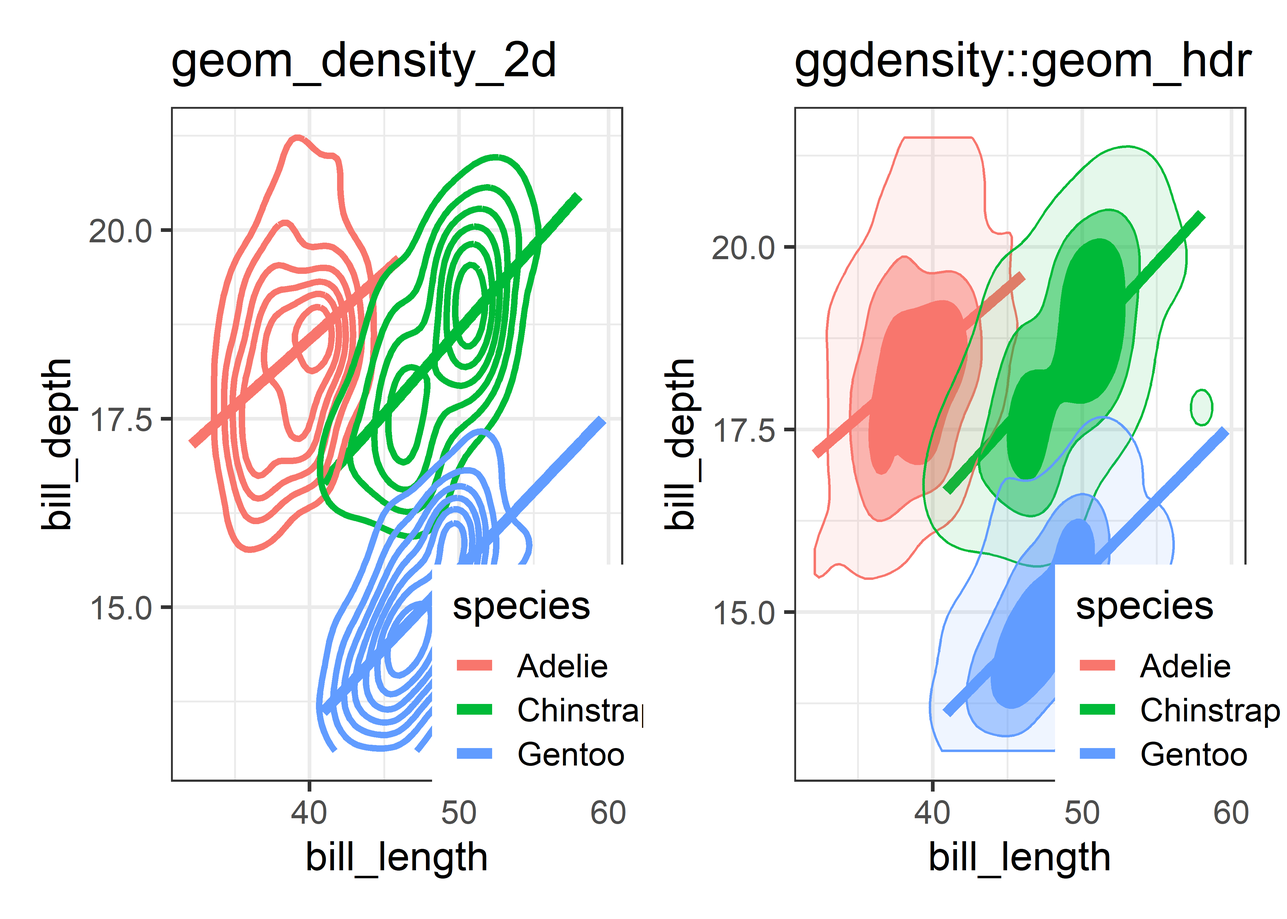
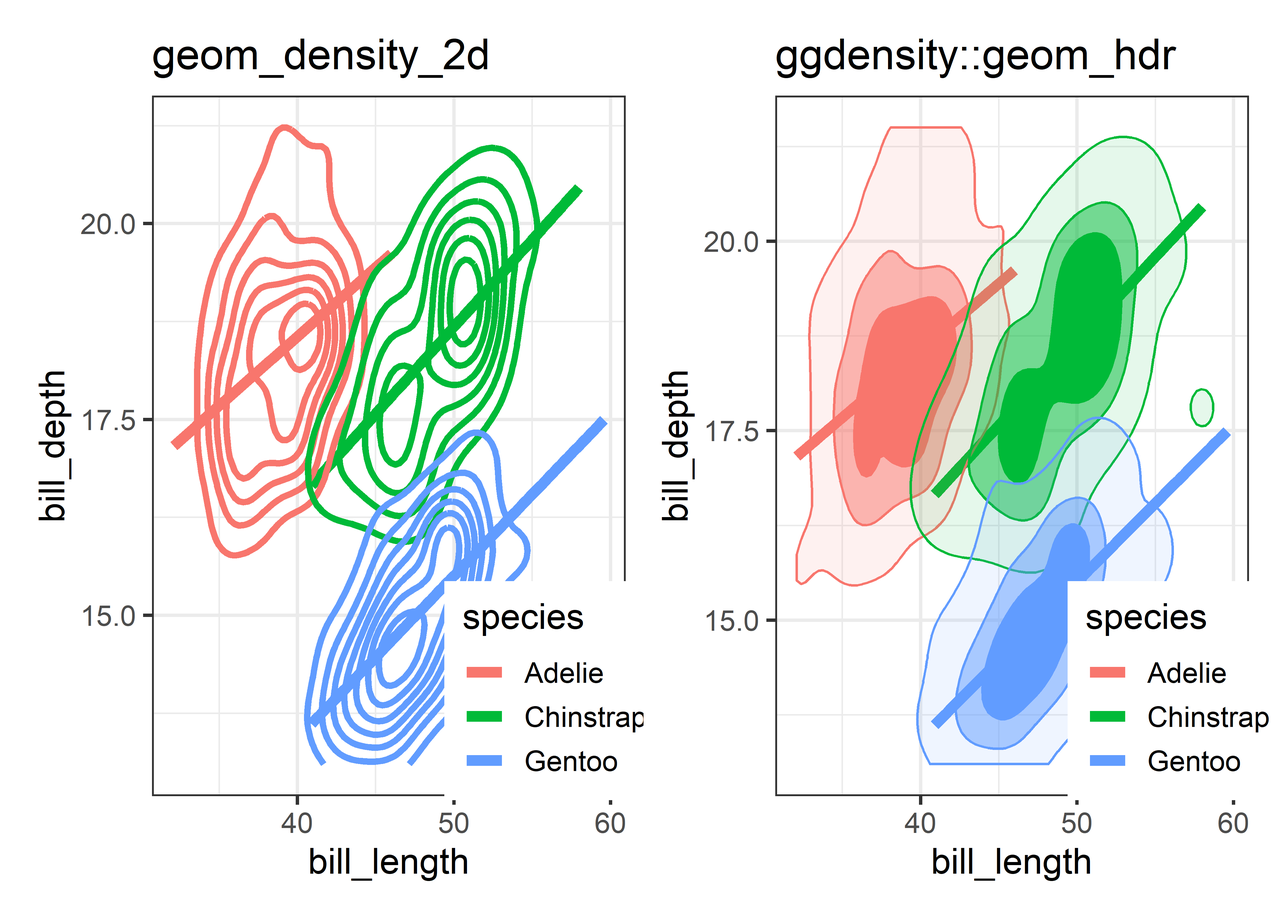
more scatmat & ggdensity

diff --git a/docs/03-multivariate_plots.html b/docs/03-multivariate_plots.html
@@ -542,7 +542,7 @@ A bit of history
 <div class="cell" data-layout-align="center">
 <div class="cell-output-display">
 <div id="fig-mahalanobis" class="quarto-figure quarto-figure-center anchored">
-<figure class="figure"><p><img src="images/mahalanobis.png" class="img-fluid figure-img" style="width:70.0%"></p>
+<figure class="figure"><p><img src="images/mahalanobis.png" class="img-fluid figure-img" style="width:60.0%"></p>
 <figcaption class="figure-caption">Figure&nbsp;3.8: 2D data with curves of constant distance from the centroid. The blue solid ellipse shows a contour of constant Mahalanobis distance, taking the correlation into account; the dashed red circle is a contour of equal Euclidean distance. Given the data points, Which of the points <strong>A</strong> and <strong>B</strong> is further from the mean (X)? <em>Source</em>: Re-drawn from <a href="https://ouzhang.rbind.io/2020/11/16/outliers-part4/">Ou Zhang</a></figcaption></figure>
 </div>
 </div>
@@ -651,7 +651,7 @@ D_M^2 (\mathbf{y}) = (\mathbf{y} - \bar{\mathbf{y}})^T S^{-1} (\mathbf{y} - \bar
 <span><span class="co">#&gt;                2               17               20               24</span></span></code><button title="Copy to Clipboard" class="code-copy-button"><i class="bi"></i></button></pre></div>
 <div class="cell-output-display">
 <div id="fig-Prestige-scatterplot-income1" class="quarto-figure quarto-figure-center anchored">
-<figure class="figure"><p><img src="figs/fig-Prestige-scatterplot-income1-1.png" class="img-fluid figure-img" style="width:100.0%"></p>
+<figure class="figure"><p><img src="figs/fig-Prestige-scatterplot-income1-1.png" class="img-fluid figure-img" style="width:800.0%"></p>
 <figcaption class="figure-caption">Figure&nbsp;3.11: Scatterplot of prestige vs.&nbsp;income, showing the linear regression line (red), the loess smooth with a confidence envelope (darkgreen) and a 68% data ellipse.</figcaption></figure>
 </div>
 </div>
@@ -678,7 +678,7 @@ D_M^2 (\mathbf{y}) = (\mathbf{y} - \bar{\mathbf{y}})^T S^{-1} (\mathbf{y} - \bar
 <span><span class="co">#&gt;          24          41          53          67</span></span></code><button title="Copy to Clipboard" class="code-copy-button"><i class="bi"></i></button></pre></div>
 <div class="cell-output-display">
 <div id="fig-Prestige-scatterplot-educ1" class="quarto-figure quarto-figure-center anchored">
-<figure class="figure"><p><img src="figs/fig-Prestige-scatterplot-educ1-1.png" class="img-fluid figure-img" style="width:100.0%"></p>
+<figure class="figure"><p><img src="figs/fig-Prestige-scatterplot-educ1-1.png" class="img-fluid figure-img" style="width:80.0%"></p>
 <figcaption class="figure-caption">Figure&nbsp;3.12: Scatterplot of prestige vs.&nbsp;education, showing the linear regression line (red), the loess smooth with a confidence envelope (darkgreen) and a 68% data ellipse.</figcaption></figure>
 </div>
 </div>
@@ -686,7 +686,8 @@ D_M^2 (\mathbf{y}) = (\mathbf{y} - \bar{\mathbf{y}})^T S^{-1} (\mathbf{y} - \bar
 <p>In this plot, farmers, newsboys, file.clerks and physicians are identified as noteworthy, for being furthest from the mean by Mahalanobis distance. In relation to their typical level of education, these are mostly understandable, but it is nice that farmers are rated of higher prestige than their level of education would predict.</p>
 <p>Note that the <code>method</code> argument for point identification can take a vector of case numbers indicating the points to be labeled. So, to label the observations with large absolute standardized residuals in the linear model <code>m</code>, you can use <code>method = which(abs(rstandard(m)) &gt; 2)</code>.</p>
 <div class="cell" data-layout-align="center">
-<div class="sourceCode" id="cb15" data-source-line-numbers="nil" data-code-line-numbers="nil"><pre class="downlit sourceCode r code-with-copy"><code class="sourceCode R"><span><span class="va">m</span> <span class="op">&lt;-</span> <span class="fu"><a href="https://rdrr.io/r/stats/lm.html">lm</a></span><span class="op">(</span><span class="va">prestige</span> <span class="op">~</span> <span class="va">education</span>, data<span class="op">=</span><span class="va">Prestige</span><span class="op">)</span></span>
+<div class="sourceCode" id="cb15" data-source-line-numbers="nil" data-code-line-numbers="nil"><pre class="downlit sourceCode r code-with-copy"><code class="sourceCode R"><span><span class="fu"><a href="https://rdrr.io/r/graphics/par.html">par</a></span><span class="op">(</span>mar <span class="op">=</span> <span class="fu"><a href="https://rdrr.io/r/base/c.html">c</a></span><span class="op">(</span><span class="fl">4</span>,<span class="fl">4</span>,<span class="fl">1</span>,<span class="fl">1</span><span class="op">)</span><span class="op">+</span><span class="fl">.1</span><span class="op">)</span></span>
+<span><span class="va">m</span> <span class="op">&lt;-</span> <span class="fu"><a href="https://rdrr.io/r/stats/lm.html">lm</a></span><span class="op">(</span><span class="va">prestige</span> <span class="op">~</span> <span class="va">education</span>, data<span class="op">=</span><span class="va">Prestige</span><span class="op">)</span></span>
 <span><span class="fu"><a href="https://rdrr.io/pkg/car/man/scatterplot.html">scatterplot</a></span><span class="op">(</span><span class="va">prestige</span> <span class="op">~</span> <span class="va">education</span>, data<span class="op">=</span><span class="va">Prestige</span>,</span>
 <span>            pch <span class="op">=</span> <span class="fl">16</span>, cex.lab <span class="op">=</span> <span class="fl">1.25</span>,</span>
 <span>            boxplots <span class="op">=</span> <span class="cn">FALSE</span>,</span>
@@ -704,7 +705,7 @@ D_M^2 (\mathbf{y}) = (\mathbf{y} - \bar{\mathbf{y}})^T S^{-1} (\mathbf{y} - \bar
 <span><span class="co">#&gt;                        67</span></span></code><button title="Copy to Clipboard" class="code-copy-button"><i class="bi"></i></button></pre></div>
 <div class="cell-output-display">
 <div id="fig-Prestige-scatterplot-educ2" class="quarto-figure quarto-figure-center anchored">
-<figure class="figure"><p><img src="figs/fig-Prestige-scatterplot-educ2-1.png" class="img-fluid figure-img" style="width:100.0%"></p>
+<figure class="figure"><p><img src="figs/fig-Prestige-scatterplot-educ2-1.png" class="img-fluid figure-img" style="width:800.0%"></p>
 <figcaption class="figure-caption">Figure&nbsp;3.13: Scatterplot of prestige vs.&nbsp;education, labeling points whose absolute stanardized residual is &gt; 2.</figcaption></figure>
 </div>
 </div>
@@ -728,7 +729,7 @@ D_M^2 (\mathbf{y}) = (\mathbf{y} - \bar{\mathbf{y}})^T S^{-1} (\mathbf{y} - \bar
 <span><span class="co">#&gt;                2               20               53               63</span></span></code><button title="Copy to Clipboard" class="code-copy-button"><i class="bi"></i></button></pre></div>
 <div class="cell-output-display">
 <div id="fig-Prestige-scatterplot2" class="quarto-figure quarto-figure-center anchored">
-<figure class="figure"><p><img src="figs/fig-Prestige-scatterplot2-1.png" class="img-fluid figure-img" style="width:100.0%"></p>
+<figure class="figure"><p><img src="figs/fig-Prestige-scatterplot2-1.png" class="img-fluid figure-img" style="width:80.0%"></p>
 <figcaption class="figure-caption">Figure&nbsp;3.14: Scatterplot of prestige vs.&nbsp;log(income).</figcaption></figure>
 </div>
 </div>
@@ -749,7 +750,7 @@ D_M^2 (\mathbf{y}) = (\mathbf{y} - \bar{\mathbf{y}})^T S^{-1} (\mathbf{y} - \bar
 <span>              var<span class="op">=</span><span class="cn">FALSE</span>, lwd.smooth<span class="op">=</span><span class="fl">2</span>, lty.smooth<span class="op">=</span><span class="fl">1</span><span class="op">)</span><span class="op">)</span></span></code><button title="Copy to Clipboard" class="code-copy-button"><i class="bi"></i></button></pre></div>
 <div class="cell-output-display">
 <div id="fig-Prestige-scatterplot3" class="quarto-figure quarto-figure-center anchored">
-<figure class="figure"><p><img src="figs/fig-Prestige-scatterplot3-1.png" class="img-fluid figure-img" style="width:100.0%"></p>
+<figure class="figure"><p><img src="figs/fig-Prestige-scatterplot3-1.png" class="img-fluid figure-img" style="width:80.0%"></p>
 <figcaption class="figure-caption">Figure&nbsp;3.15: Scatterplot of prestige vs.&nbsp;income, stratified by occupational type. This implies a different interpretation, where occupation type is a moderator variable.</figcaption></figure>
 </div>
 </div>
@@ -769,7 +770,7 @@ D_M^2 (\mathbf{y}) = (\mathbf{y} - \bar{\mathbf{y}})^T S^{-1} (\mathbf{y} - \bar
 </div>
 </div>
 <p>The <code>penguins</code> dataset from the <strong>palmerpenguins</strong> package <span class="citation" data-cites="R-palmerpenguins">(<a href="90-references.html#ref-R-palmerpenguins" role="doc-biblioref">Horst, Hill, and Gorman 2022</a>)</span> provides further instructive examples of plots and analyses of multivariate data. The data consists of measurements of body size (flipper length, body mass, bill length and depth) of 344 penguins collected at the <a href="https://pallter.marine.rutgers.edu/">Palmer Research Station</a> in Antartica. There were three different species of penguins (Adélie, Chinstrap &amp; Gentoo) collected from 3 islands in the Palmer Archipelago between 2007–2009 <span class="citation" data-cites="Gorman2014">(<a href="90-references.html#ref-Gorman2014" role="doc-biblioref">Gorman, Williams, and Fraser 2014</a>)</span>. The purpose was to examine differences in size or appearance of these species, particularly differences among the sexes (sexual dimorphism) in relation to foraging and habitat.</p>
-<p>Here I use a slightly altered version of the dataset, <code>peng</code>, renaming variables to remove the units, making factors of character variables and deleting two cases with missing data.</p>
+<p>Here I use a slightly altered version of the dataset, <code>peng</code>, renaming variables to remove the units, making factors of character variables and deleting a few cases with missing data.</p>
 <div class="cell" data-layout-align="center">
 <div class="sourceCode" id="cb19" data-source-line-numbers="nil" data-code-line-numbers="nil"><pre class="downlit sourceCode r code-with-copy"><code class="sourceCode R"><span><span class="fu"><a href="https://rdrr.io/r/utils/data.html">data</a></span><span class="op">(</span><span class="va">penguins</span>, package <span class="op">=</span> <span class="st">"palmerpenguins"</span><span class="op">)</span></span>
 <span><span class="va">peng</span> <span class="op">&lt;-</span> <span class="va">penguins</span> <span class="op">|&gt;</span></span>
@@ -798,7 +799,7 @@ D_M^2 (\mathbf{y}) = (\mathbf{y} - \bar{\mathbf{y}})^T S^{-1} (\mathbf{y} - \bar
 <p>There are quite a few variables to choose for illustrating data ellipses in scatterplots. Here I focus on the measures of their bills, <code>bill_length</code> and <code>bill_depth</code> (indicating curvature) and show how to use <code>ggplot2</code> for these plots.</p>
 <p>An initial plot using <code>ggplot2</code> shown in <a href="#fig-peng-ggplot1">Figure&nbsp;<span>3.17</span></a> uses color and point shape to distinguish the three penguin species. I annotate the plot of points using the linear regression lines, loess smooths to check for non-linearity and 95% data ellipses to show precision of the linear relation.</p>
 <div class="cell" data-layout-align="center">
-<div class="sourceCode" id="cb20" data-source-line-numbers="nil" data-code-line-numbers="nil"><pre class="downlit sourceCode r code-with-copy"><code class="sourceCode R"><span><span class="fu"><a href="https://ggplot2.tidyverse.org/reference/ggplot.html">ggplot</a></span><span class="op">(</span><span class="va">peng</span>, </span>
+<details open=""><summary>Code</summary><div class="sourceCode" id="cb20" data-source-line-numbers="nil" data-code-line-numbers="nil"><pre class="downlit sourceCode r code-with-copy"><code class="sourceCode R"><span><span class="fu"><a href="https://ggplot2.tidyverse.org/reference/ggplot.html">ggplot</a></span><span class="op">(</span><span class="va">peng</span>, </span>
 <span>       <span class="fu"><a href="https://ggplot2.tidyverse.org/reference/aes.html">aes</a></span><span class="op">(</span>x <span class="op">=</span> <span class="va">bill_length</span>, y <span class="op">=</span> <span class="va">bill_depth</span>,</span>
 <span>           color <span class="op">=</span> <span class="va">species</span>, shape <span class="op">=</span> <span class="va">species</span>, fill<span class="op">=</span><span class="va">species</span><span class="op">)</span><span class="op">)</span> <span class="op">+</span></span>
 <span>  <span class="fu"><a href="https://ggplot2.tidyverse.org/reference/geom_point.html">geom_point</a></span><span class="op">(</span>size<span class="op">=</span><span class="fl">2</span><span class="op">)</span> <span class="op">+</span></span>
@@ -808,9 +809,9 @@ D_M^2 (\mathbf{y}) = (\mathbf{y} - \bar{\mathbf{y}})^T S^{-1} (\mathbf{y} - \bar
 <span>              linewidth <span class="op">=</span> <span class="fl">1.5</span>, se <span class="op">=</span> <span class="cn">FALSE</span>, alpha<span class="op">=</span><span class="fl">0.1</span><span class="op">)</span> <span class="op">+</span></span>
 <span>  <span class="fu"><a href="https://ggplot2.tidyverse.org/reference/stat_ellipse.html">stat_ellipse</a></span><span class="op">(</span>geom <span class="op">=</span> <span class="st">"polygon"</span>, level <span class="op">=</span> <span class="fl">0.95</span>, alpha <span class="op">=</span> <span class="fl">0.2</span><span class="op">)</span> <span class="op">+</span></span>
 <span>  <span class="fu"><a href="https://ggplot2.tidyverse.org/reference/theme.html">theme</a></span><span class="op">(</span>legend.position <span class="op">=</span> <span class="fu"><a href="https://rdrr.io/r/base/c.html">c</a></span><span class="op">(</span><span class="fl">0.85</span>, <span class="fl">0.15</span><span class="op">)</span><span class="op">)</span></span></code><button title="Copy to Clipboard" class="code-copy-button"><i class="bi"></i></button></pre></div>
-<div class="cell-output-display">
+</details><div class="cell-output-display">
 <div id="fig-peng-ggplot1" class="quarto-figure quarto-figure-center anchored">
-<figure class="figure"><p><img src="figs/fig-peng-ggplot1-1.png" class="img-fluid figure-img" style="width:100.0%"></p>
+<figure class="figure"><p><img src="figs/fig-peng-ggplot1-1.png" class="img-fluid figure-img" style="width:80.0%"></p>
 <figcaption class="figure-caption">Figure&nbsp;3.17: Penguin bill length and bill depth according to species.</figcaption></figure>
 </div>
 </div>
@@ -818,7 +819,7 @@ D_M^2 (\mathbf{y}) = (\mathbf{y} - \bar{\mathbf{y}})^T S^{-1} (\mathbf{y} - \bar
 <p>Overall, the three species occupy different regions of this 2D space and for each species the relation between bill length and depth appears reasonably linear. Given this, we can suppress plotting the data points to get a visual summary of the data using the fitted regression lines and data ellipses, as shown in <a href="#fig-peng-ggplot2">Figure&nbsp;<span>3.18</span></a>.</p>
 <p>This idea, of <strong>visual thinning</strong> a graph to focus on what should be seen, becomes increasingly useful as the data becomes more complex. The <code>ggplot2</code> framework encourages this, because we can think of various components as layers, to be included or not. Here I chose to include only the regression line and add data ellipses of 40%, 68% and 95% coverage to highlight the increasing bivariate density around the group means.</p>
 <div class="cell" data-layout-align="center">
-<div class="sourceCode" id="cb21" data-source-line-numbers="nil" data-code-line-numbers="nil"><pre class="downlit sourceCode r code-with-copy"><code class="sourceCode R"><span><span class="fu"><a href="https://ggplot2.tidyverse.org/reference/ggplot.html">ggplot</a></span><span class="op">(</span><span class="va">peng</span>, </span>
+<details open=""><summary>Code</summary><div class="sourceCode" id="cb21" data-source-line-numbers="nil" data-code-line-numbers="nil"><pre class="downlit sourceCode r code-with-copy"><code class="sourceCode R"><span><span class="fu"><a href="https://ggplot2.tidyverse.org/reference/ggplot.html">ggplot</a></span><span class="op">(</span><span class="va">peng</span>, </span>
 <span>       <span class="fu"><a href="https://ggplot2.tidyverse.org/reference/aes.html">aes</a></span><span class="op">(</span>x <span class="op">=</span> <span class="va">bill_length</span>, y <span class="op">=</span> <span class="va">bill_depth</span>,</span>
 <span>           color <span class="op">=</span> <span class="va">species</span>, shape <span class="op">=</span> <span class="va">species</span>, fill<span class="op">=</span><span class="va">species</span><span class="op">)</span><span class="op">)</span> <span class="op">+</span></span>
 <span>  <span class="fu"><a href="https://ggplot2.tidyverse.org/reference/geom_smooth.html">geom_smooth</a></span><span class="op">(</span>method <span class="op">=</span> <span class="st">"lm"</span>,  se<span class="op">=</span><span class="cn">FALSE</span>, linewidth<span class="op">=</span><span class="fl">2</span><span class="op">)</span> <span class="op">+</span></span>
@@ -826,18 +827,19 @@ D_M^2 (\mathbf{y}) = (\mathbf{y} - \bar{\mathbf{y}})^T S^{-1} (\mathbf{y} - \bar
 <span>  <span class="fu"><a href="https://ggplot2.tidyverse.org/reference/stat_ellipse.html">stat_ellipse</a></span><span class="op">(</span>geom <span class="op">=</span> <span class="st">"polygon"</span>, level <span class="op">=</span> <span class="fl">0.68</span>, alpha <span class="op">=</span> <span class="fl">0.2</span><span class="op">)</span> <span class="op">+</span></span>
 <span>  <span class="fu"><a href="https://ggplot2.tidyverse.org/reference/stat_ellipse.html">stat_ellipse</a></span><span class="op">(</span>geom <span class="op">=</span> <span class="st">"polygon"</span>, level <span class="op">=</span> <span class="fl">0.40</span>, alpha <span class="op">=</span> <span class="fl">0.2</span><span class="op">)</span> <span class="op">+</span></span>
 <span>  <span class="fu"><a href="https://ggplot2.tidyverse.org/reference/theme.html">theme</a></span><span class="op">(</span>legend.position <span class="op">=</span> <span class="fu"><a href="https://rdrr.io/r/base/c.html">c</a></span><span class="op">(</span><span class="fl">0.85</span>, <span class="fl">0.15</span><span class="op">)</span><span class="op">)</span></span></code><button title="Copy to Clipboard" class="code-copy-button"><i class="bi"></i></button></pre></div>
-<div class="cell-output-display">
+</details><div class="cell-output-display">
 <div id="fig-peng-ggplot2" class="quarto-figure quarto-figure-center anchored">
-<figure class="figure"><p><img src="figs/fig-peng-ggplot2-1.png" class="img-fluid figure-img" style="width:100.0%"></p>
+<figure class="figure"><p><img src="figs/fig-peng-ggplot2-1.png" class="img-fluid figure-img" style="width:80.0%"></p>
 <figcaption class="figure-caption">Figure&nbsp;3.18: <strong>Visual thinning</strong>: Suppressing the data points gives a visual summary of the relation between bill length and bill depth using the regression line and data ellipses.</figcaption></figure>
 </div>
 </div>
 </div>
 <p>While I emphasize data ellipses (because I like their beautiful geometry), other visual summaries of the bivariate density are possible and often useful.</p>
-<p>For a single variable, <code><a href="https://rdrr.io/r/stats/density.html">stats::density()</a></code> and <code><a href="https://ggplot2.tidyverse.org/reference/geom_density.html">ggplot2::geom_density()</a></code> calculate a smoothed estimate of the density using kernel methods whose smoothness is controlled by a bandwidth parameter, analogous to the span in a loess smoother. This idea extends to two (and more) variables …</p>
-<p><code>ggplot2</code> provides <code><a href="https://ggplot2.tidyverse.org/reference/geom_density_2d.html">geom_density_2d()</a></code> which takes horizontal slices of the 3d surface at equally-spaced heights … The <strong>ggdensity</strong> package <span class="citation" data-cites="R-ggdensity">(<a href="90-references.html#ref-R-ggdensity" role="doc-biblioref">Otto and Kahle 2023</a>)</span> extends this …</p>
+<p>For a single variable, <code><a href="https://rdrr.io/r/stats/density.html">stats::density()</a></code> and <code><a href="https://ggplot2.tidyverse.org/reference/geom_density.html">ggplot2::geom_density()</a></code> calculate a smoothed estimate of the density using nonparametric kernel methods <span class="citation" data-cites="Silverman:86">(<a href="90-references.html#ref-Silverman:86" role="doc-biblioref">Silverman 1986</a>)</span> whose smoothness is controlled by a bandwidth parameter, analogous to the span in a loess smoother. This idea extends to two (and more) variables <span class="citation" data-cites="Scott1992">(<a href="90-references.html#ref-Scott1992" role="doc-biblioref">Scott 1992</a>)</span>. For bivariate data, <code><a href="https://rdrr.io/pkg/MASS/man/kde2d.html">MASS::kde2d()</a></code> estimates the density on a square <span class="math inline">\(n \times n\)</span> grid over the ranges of the variables.</p>
+<p><code>ggplot2</code> provides <code><a href="https://ggplot2.tidyverse.org/reference/geom_density_2d.html">geom_density_2d()</a></code> which uses <code><a href="https://rdrr.io/pkg/MASS/man/kde2d.html">MASS::kde2d()</a></code> and displays these as contours— horizontal slices of the 3D surface at equally-spaced heights and projects these onto the 2D plane. The <strong>ggdensity</strong> package <span class="citation" data-cites="R-ggdensity">(<a href="90-references.html#ref-R-ggdensity" role="doc-biblioref">Otto and Kahle 2023</a>)</span> extends this with <code><a href="https://jamesotto852.github.io/ggdensity/reference/geom_hdr.html">geom_hdr()</a></code>, computing the high density regions that bound given levels of probability and maps these to the <code>alpha</code> transparency aesthetic. A <code>method</code> argument allows you to specify various nonparametric (<code>method ="kde"</code> is the default) and parametric (<code>method ="mvnorm"</code> gives normal data ellipses) ways to estimate the underlying bivariate distribution.</p>
+<p><a href="#fig-peng-ggdensity">Figure&nbsp;<span>3.19</span></a> shows these side-by-side for comparison. With <code><a href="https://ggplot2.tidyverse.org/reference/geom_density_2d.html">geom_density_2d()</a></code> you can specify either the number of contour <code>bins</code> or the width of these bins (<code>binwidth</code>). For <code><a href="https://jamesotto852.github.io/ggdensity/reference/geom_hdr.html">geom_hdr()</a></code>, the <code>probs</code> argument gives a result that is easier to understand.</p>
 <div class="cell" data-layout-align="center">
-<div class="sourceCode" id="cb22" data-source-line-numbers="nil" data-code-line-numbers="nil"><pre class="downlit sourceCode r code-with-copy"><code class="sourceCode R"><span><span class="kw"><a href="https://rdrr.io/r/base/library.html">library</a></span><span class="op">(</span><span class="va"><a href="https://jamesotto852.github.io/ggdensity/">ggdensity</a></span><span class="op">)</span></span>
+<details open=""><summary>Code</summary><div class="sourceCode" id="cb22" data-source-line-numbers="nil" data-code-line-numbers="nil"><pre class="downlit sourceCode r code-with-copy"><code class="sourceCode R"><span><span class="kw"><a href="https://rdrr.io/r/base/library.html">library</a></span><span class="op">(</span><span class="va"><a href="https://jamesotto852.github.io/ggdensity/">ggdensity</a></span><span class="op">)</span></span>
 <span><span class="kw"><a href="https://rdrr.io/r/base/library.html">library</a></span><span class="op">(</span><span class="va"><a href="https://patchwork.data-imaginist.com">patchwork</a></span><span class="op">)</span></span>
 <span><span class="va">p1</span> <span class="op">&lt;-</span> <span class="fu"><a href="https://ggplot2.tidyverse.org/reference/ggplot.html">ggplot</a></span><span class="op">(</span><span class="va">peng</span>, </span>
 <span>       <span class="fu"><a href="https://ggplot2.tidyverse.org/reference/aes.html">aes</a></span><span class="op">(</span>x <span class="op">=</span> <span class="va">bill_length</span>, y <span class="op">=</span> <span class="va">bill_depth</span>,</span>
@@ -845,6 +847,7 @@ D_M^2 (\mathbf{y}) = (\mathbf{y} - \bar{\mathbf{y}})^T S^{-1} (\mathbf{y} - \bar
 <span>  <span class="fu"><a href="https://ggplot2.tidyverse.org/reference/geom_smooth.html">geom_smooth</a></span><span class="op">(</span>method <span class="op">=</span> <span class="st">"lm"</span>,  se<span class="op">=</span><span class="cn">FALSE</span>, linewidth<span class="op">=</span><span class="fl">2</span><span class="op">)</span> <span class="op">+</span></span>
 <span>  <span class="fu"><a href="https://ggplot2.tidyverse.org/reference/geom_density_2d.html">geom_density_2d</a></span><span class="op">(</span>linewidth <span class="op">=</span> <span class="fl">1.2</span>, bins <span class="op">=</span> <span class="fl">8</span><span class="op">)</span> <span class="op">+</span></span>
 <span>  <span class="fu"><a href="https://ggplot2.tidyverse.org/reference/labs.html">ggtitle</a></span><span class="op">(</span><span class="st">"geom_density_2d"</span><span class="op">)</span> <span class="op">+</span></span>
+<span>  <span class="fu"><a href="https://ggplot2.tidyverse.org/reference/ggtheme.html">theme_bw</a></span><span class="op">(</span>base_size <span class="op">=</span> <span class="fl">14</span><span class="op">)</span> <span class="op">+</span> </span>
 <span>  <span class="fu"><a href="https://ggplot2.tidyverse.org/reference/theme.html">theme</a></span><span class="op">(</span>legend.position <span class="op">=</span> <span class="fu"><a href="https://rdrr.io/r/base/c.html">c</a></span><span class="op">(</span><span class="fl">0.85</span>, <span class="fl">0.15</span><span class="op">)</span><span class="op">)</span></span>
 <span></span>
 <span><span class="va">p2</span> <span class="op">&lt;-</span> <span class="fu"><a href="https://ggplot2.tidyverse.org/reference/ggplot.html">ggplot</a></span><span class="op">(</span><span class="va">peng</span>, </span>
@@ -853,13 +856,14 @@ D_M^2 (\mathbf{y}) = (\mathbf{y} - \bar{\mathbf{y}})^T S^{-1} (\mathbf{y} - \bar
 <span>  <span class="fu"><a href="https://ggplot2.tidyverse.org/reference/geom_smooth.html">geom_smooth</a></span><span class="op">(</span>method <span class="op">=</span> <span class="st">"lm"</span>,  se<span class="op">=</span><span class="cn">FALSE</span>, linewidth<span class="op">=</span><span class="fl">2</span><span class="op">)</span> <span class="op">+</span></span>
 <span>  <span class="fu"><a href="https://jamesotto852.github.io/ggdensity/reference/geom_hdr.html">geom_hdr</a></span><span class="op">(</span>probs <span class="op">=</span> <span class="fu"><a href="https://rdrr.io/r/base/c.html">c</a></span><span class="op">(</span><span class="fl">0.95</span>, <span class="fl">0.68</span>, <span class="fl">0.4</span><span class="op">)</span>, show.legend <span class="op">=</span> <span class="cn">FALSE</span><span class="op">)</span> <span class="op">+</span></span>
 <span>  <span class="fu"><a href="https://ggplot2.tidyverse.org/reference/labs.html">ggtitle</a></span><span class="op">(</span><span class="st">"ggdensity::geom_hdr"</span><span class="op">)</span> <span class="op">+</span></span>
+<span>  <span class="fu"><a href="https://ggplot2.tidyverse.org/reference/ggtheme.html">theme_bw</a></span><span class="op">(</span>base_size <span class="op">=</span> <span class="fl">14</span><span class="op">)</span> <span class="op">+</span> </span>
 <span>  <span class="fu"><a href="https://ggplot2.tidyverse.org/reference/theme.html">theme</a></span><span class="op">(</span>legend.position <span class="op">=</span> <span class="fu"><a href="https://rdrr.io/r/base/c.html">c</a></span><span class="op">(</span><span class="fl">0.85</span>, <span class="fl">0.15</span><span class="op">)</span><span class="op">)</span></span>
 <span></span>
 <span><span class="va">p1</span> <span class="op">+</span> <span class="va">p2</span></span></code><button title="Copy to Clipboard" class="code-copy-button"><i class="bi"></i></button></pre></div>
-<div class="cell-output-display">
+</details><div class="cell-output-display">
 <div id="fig-peng-ggdensity" class="quarto-figure quarto-figure-center anchored">
 <figure class="figure"><p><img src="figs/fig-peng-ggdensity-1.png" class="img-fluid figure-img" style="width:100.0%"></p>
-<figcaption class="figure-caption">Figure&nbsp;3.19: <strong>Bivariate density</strong>: .</figcaption></figure>
+<figcaption class="figure-caption">Figure&nbsp;3.19: <strong>Bivariate densities</strong> show the contours of the 3D surface representing the frequency in the joint distribution of bill length and bill depth.</figcaption></figure>
 </div>
 </div>
 </div>
@@ -912,7 +916,7 @@ D_M^2 (\mathbf{y}) = (\mathbf{y} - \bar{\mathbf{y}})^T S^{-1} (\mathbf{y} - \bar
 <p>It is now easy to see why education is multi-modal: blue collar, white collar and professional occupations have largely non-overlapping years of education. As well, the distribution of % women is much higher in the white collar category.</p>
 <section id="generalized-pairs-plots" class="level3" data-number="3.2.1"><h3 data-number="3.2.1" class="anchored" data-anchor-id="generalized-pairs-plots">
 <span class="header-section-number">3.2.1</span> Generalized pairs plots</h3>
-<p>When a dataset contains one or more discrete variables, the traditional pairs plot provides cannot cope, using only color and/or point symbols to represent categorical variables. In the context of mosaic displays and loglinear models, representing <span class="math inline">\(n\)</span>-way frequency tables by rectangular tiles depicting cell frequencies, I <span class="citation" data-cites="Friendly:94a">(<a href="90-references.html#ref-Friendly:94a" role="doc-biblioref">Friendly 1994</a>)</span> proposed an analog of the scatterplot matrix using mosaic plots for each pair of variables. The <strong>vcd</strong> package <span class="citation" data-cites="R-vcd">(<a href="90-references.html#ref-R-vcd" role="doc-biblioref"><strong>R-vcd?</strong></a>)</span> implements very general <code><a href="https://rdrr.io/r/graphics/pairs.html">pairs()</a></code> methods for <code>"table"</code> objects. See my book <em>Discrete Data Analysis with R</em> <span class="citation" data-cites="FriendlyMeyer:2016:DDAR">(<a href="90-references.html#ref-FriendlyMeyer:2016:DDAR" role="doc-biblioref">Friendly and Meyer 2016</a>)</span> …</p>
+<p>When a dataset contains one or more discrete variables, the traditional pairs plot provides cannot cope, using only color and/or point symbols to represent categorical variables. In the context of mosaic displays and loglinear models, representing <span class="math inline">\(n\)</span>-way frequency tables by rectangular tiles depicting cell frequencies, I <span class="citation" data-cites="Friendly:94a">(<a href="90-references.html#ref-Friendly:94a" role="doc-biblioref">Friendly 1994</a>)</span> proposed an analog of the scatterplot matrix using mosaic plots for each pair of variables. The <strong>vcd</strong> package <span class="citation" data-cites="R-vcd">(<a href="90-references.html#ref-R-vcd" role="doc-biblioref">Meyer, Zeileis, and Hornik 2023</a>)</span> implements very general <code><a href="https://rdrr.io/r/graphics/pairs.html">pairs()</a></code> methods for <code>"table"</code> objects. See my book <em>Discrete Data Analysis with R</em> <span class="citation" data-cites="FriendlyMeyer:2016:DDAR">(<a href="90-references.html#ref-FriendlyMeyer:2016:DDAR" role="doc-biblioref">Friendly and Meyer 2016</a>)</span> …</p>
 <p>The next step, by John Emerson and others <span class="citation" data-cites="Emerson-etal:2013">(<a href="90-references.html#ref-Emerson-etal:2013" role="doc-biblioref">Emerson et al. 2013</a>)</span> was to recognize that combinations of continuous and discrete, categorical variables could be plotted in different ways.</p>
 <ul>
 <li>two continuous variables can be shown as a standard scatterplot of points and/or bivariate density contours, or simply by numeric summaries such as a correlation value;</li>
@@ -981,6 +985,9 @@ Hartigan, J. A. 1975. <span>“Printer Graphics for Clustering.”</span> <em>Jo
 <div id="ref-R-palmerpenguins" class="csl-entry" role="listitem">
 Horst, Allison, Alison Hill, and Kristen Gorman. 2022. <em>Palmerpenguins: Palmer Archipelago (Antarctica) Penguin Data</em>. <a href="https://allisonhorst.github.io/palmerpenguins/">https://allisonhorst.github.io/palmerpenguins/</a>.
 </div>
+<div id="ref-R-vcd" class="csl-entry" role="listitem">
+Meyer, David, Achim Zeileis, and Kurt Hornik. 2023. <em>Vcd: Visualizing Categorical Data</em>. <a href="https://CRAN.R-project.org/package=vcd">https://CRAN.R-project.org/package=vcd</a>.
+</div>
 <div id="ref-Monette:90" class="csl-entry" role="listitem">
 Monette, Georges. 1990. <span>“Geometry of Multiple Regression and Interactive 3-<span>D</span> Graphics.”</span> In <em>Modern Methods of Data Analysis</em>, edited by J. Fox and S. Long, 209–56. Beverly Hills, CA: SAGE Publications.
 </div>
@@ -995,6 +1002,12 @@ Sarkar, Deepayan. 2023. <em>Lattice: Trellis Graphics for r</em>. <a href="https
 </div>
 <div id="ref-R-GGally" class="csl-entry" role="listitem">
 Schloerke, Barret, Di Cook, Joseph Larmarange, Francois Briatte, Moritz Marbach, Edwin Thoen, Amos Elberg, and Jason Crowley. 2021. <em>GGally: Extension to Ggplot2</em>. <a href="https://ggobi.github.io/ggally/">https://ggobi.github.io/ggally/</a>.
+</div>
+<div id="ref-Scott1992" class="csl-entry" role="listitem">
+Scott, David W. 1992. <em>Multivariate Density Estimation: Theory, Practice, and Visualization</em>. A Wiley-Interscience Publication. NY: Wiley.
+</div>
+<div id="ref-Silverman:86" class="csl-entry" role="listitem">
+Silverman, B. W. 1986. <em>Density Estimation for Statistics and Data Analysis</em>. New York: Chapman &amp; Hall.
 </div>
 <div id="ref-Wood:2006" class="csl-entry" role="listitem">
 Wood, Simon N. 2006. <em>Generalized Additive Models: An Introduction with r</em>. Chapman; Hall/CRC Press.

diff --git a/docs/index.html b/docs/index.html
@@ -5,7 +5,7 @@
 <meta name="generator" content="quarto-1.3.450">
 <meta name="viewport" content="width=device-width, initial-scale=1.0, user-scalable=yes">
 <meta name="author" content="Michael Friendly">
-<meta name="dcterms.date" content="2023-11-11">
+<meta name="dcterms.date" content="2023-11-12">
 <title>Visualizing Multivariate Data and Models in R</title>
 <style>
 code{white-space: pre-wrap;}
@@ -280,7 +280,7 @@ div.csl-indent {
     <div>
     <div class="quarto-title-meta-heading">Published</div>
     <div class="quarto-title-meta-contents">
-      <p class="date">November 11, 2023</p>
+      <p class="date">November 12, 2023</p>
     </div>
   </div>
   

diff --git a/docs/90-references.html b/docs/90-references.html
@@ -640,6 +640,10 @@ Schloerke, Barret, Di Cook, Joseph Larmarange, Francois Briatte, Moritz
 Marbach, Edwin Thoen, Amos Elberg, and Jason Crowley. 2021. <em>GGally:
 Extension to Ggplot2</em>. <a href="https://ggobi.github.io/ggally/">https://ggobi.github.io/ggally/</a>.
 </div>
+<div id="ref-Silverman:86" class="csl-entry" role="listitem">
+Silverman, B. W. 1986. <em>Density Estimation for Statistics and Data
+Analysis</em>. New York: Chapman &amp; Hall.
+</div>
 <div id="ref-Teetor2011" class="csl-entry" role="listitem">
 Teetor, Paul. 2011. <em><span class="nocase">R cookbook</span></em>.
 Sebastopol, CA: <span>O’Reilly</span> Media.
